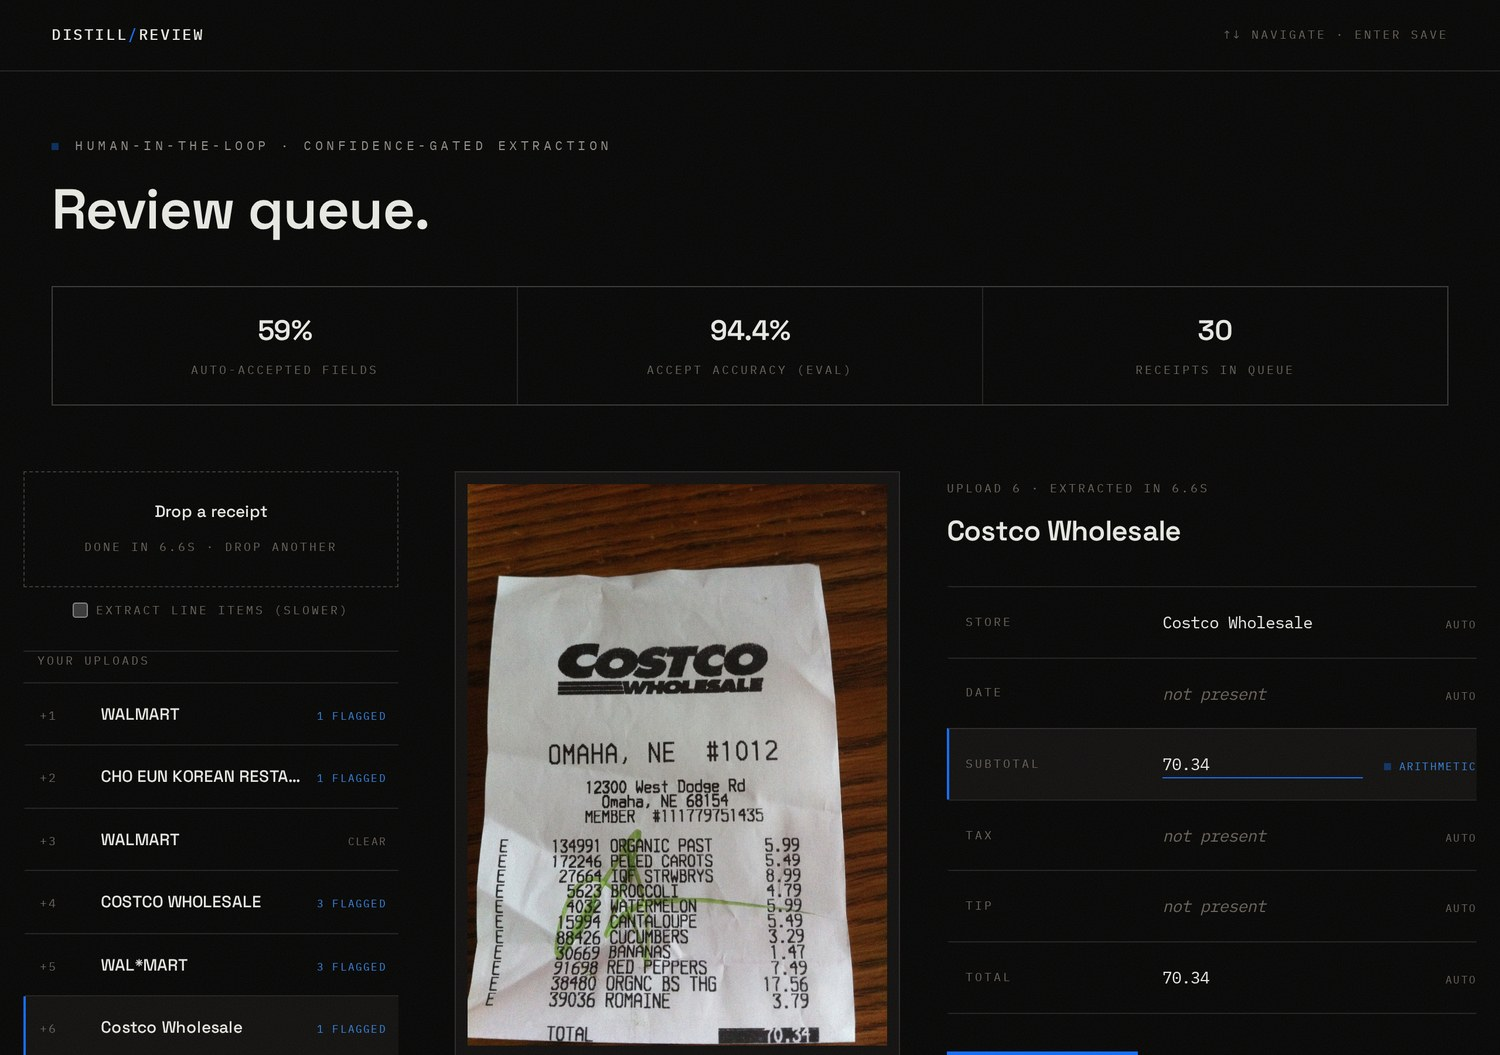
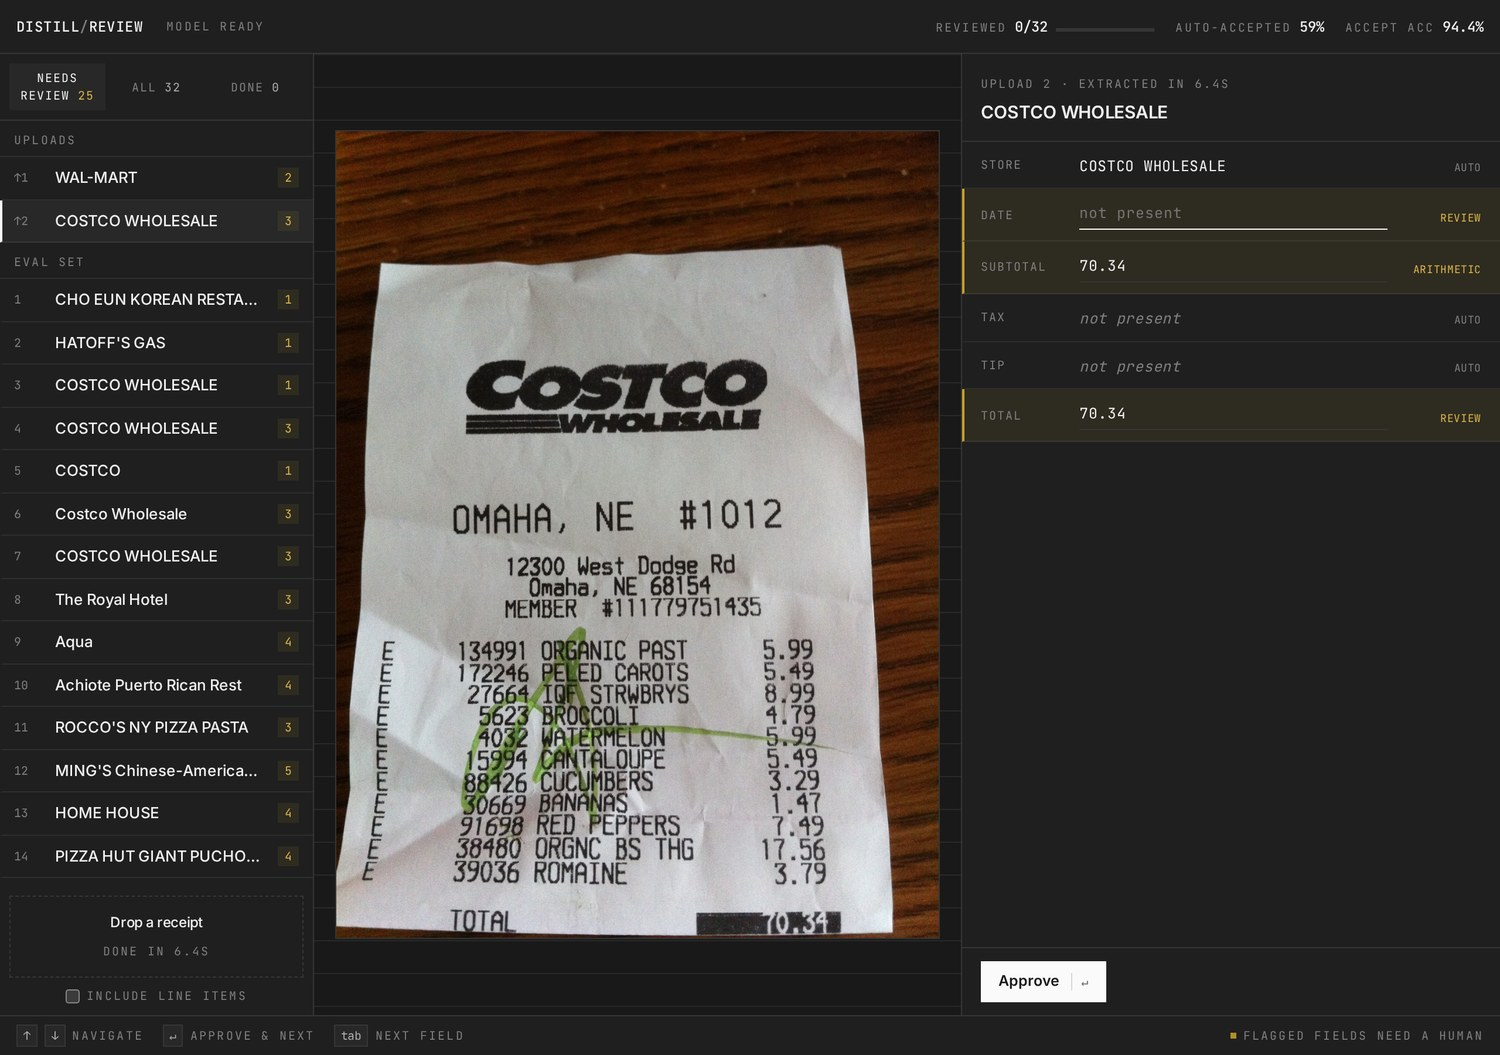
Lighten surfaces off near-black and refresh demo assets
Background moves from #0b0b0b to a neutral #191919 charcoal, with
layers and borders stepped up to match. Same layering discipline, less
of a void behind a scanned white receipt.

README assets recaptured against the current UI (they still showed the
blue portfolio layout).

diff --git a/review/static/index.html b/review/static/index.html
@@ -12,14 +12,14 @@
       /* Neutral grayscale surfaces; white is the interface accent (selection,
          primary action). Exactly one hue survives, and only semantically:
          amber marks fields a human still has to resolve. */
-      --bg: #0b0b0b;
-      --layer: #121212;
-      --layer-2: #1a1a1a;
-      --border: #262626;
-      --border-soft: rgba(255, 255, 255, 0.055);
-      --fg: #ededed;
-      --fg-dim: #a3a3a3;
-      --fg-feint: #6f6f6f;
+      --bg: #191919;
+      --layer: #1f1f1f;
+      --layer-2: #282828;
+      --border: #363636;
+      --border-soft: rgba(255, 255, 255, 0.07);
+      --fg: #f0f0f0;
+      --fg-dim: #adadad;
+      --fg-feint: #808080;
       --accent: #fafafa;
       --accent-hi: #ffffff;
       --accent-wash: rgba(255, 255, 255, 0.055);
